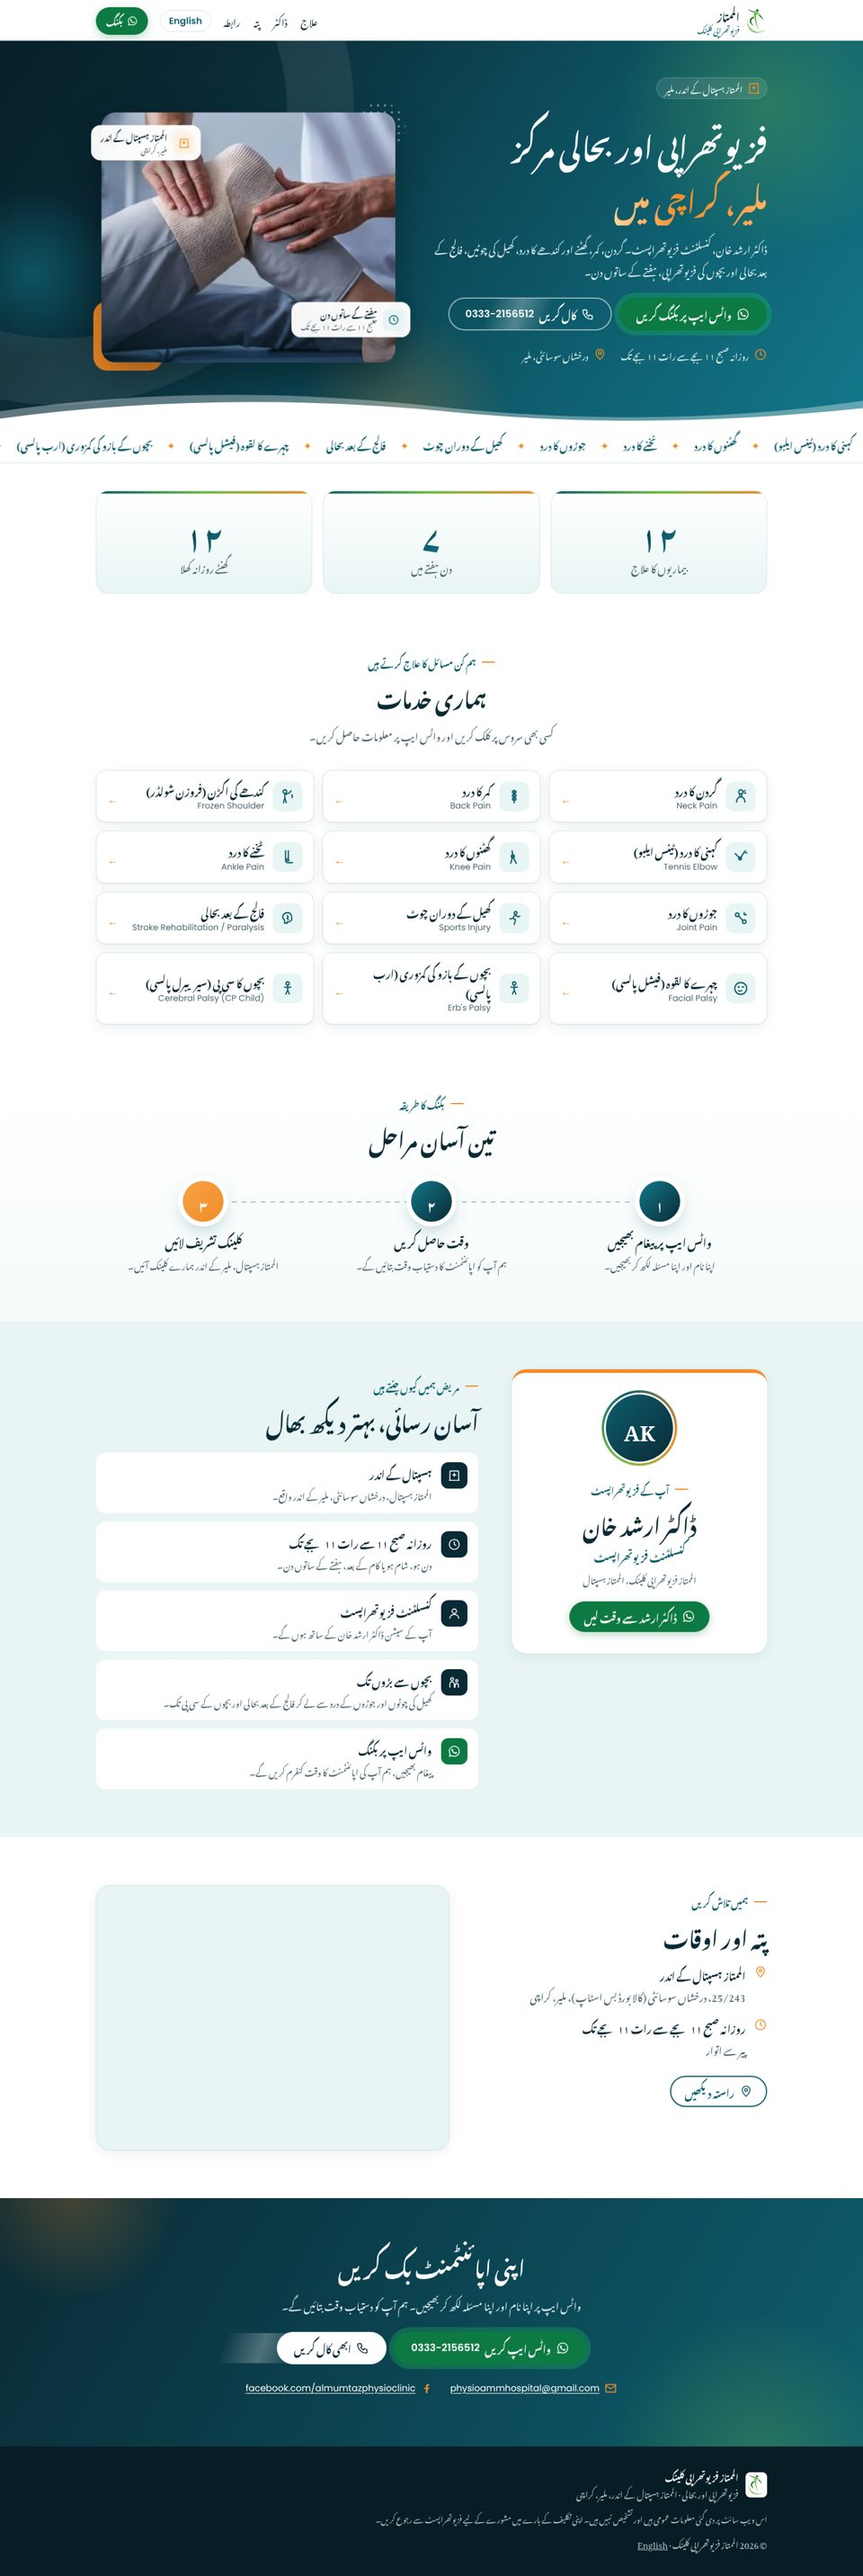
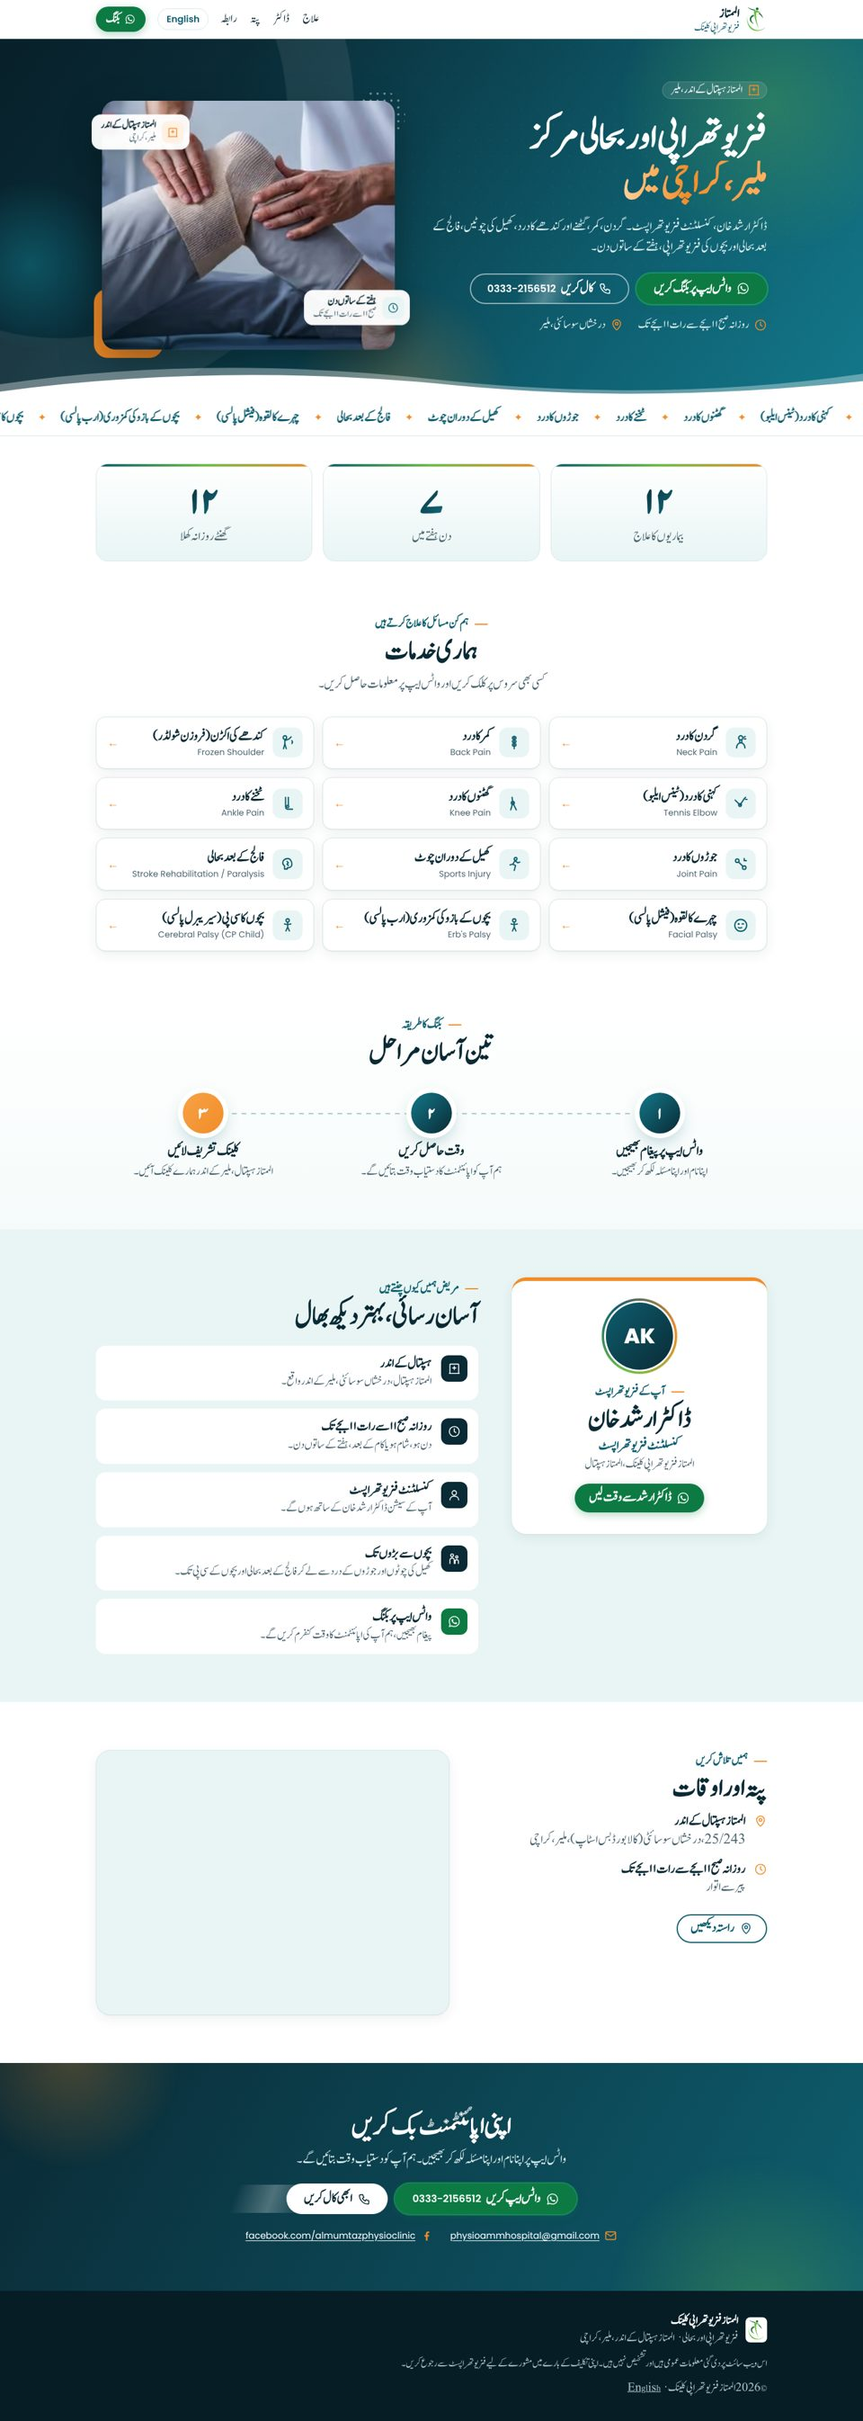
Urdu page: use Jameel Noori Nastaleeq (subset webfont, ~70 KB)
- tools/urdu_font.py shapes every Urdu string with HarfBuzz and keeps only the glyphs used
- Replaces Noto Nastaliq Urdu; size-adjust so it sits well with Poppins
- Refreshed screenshots

Claude-Session: https://claude.ai/code/session_016tra3R8HQt4HLWkdhfzTE8

diff --git a/website/app/motion.css b/website/app/motion.css
@@ -40,7 +40,7 @@
   transition: background .2s, border-color .2s, color .2s;
 }
 .lang-switch:hover { background: var(--mint); border-color: var(--teal); }
-.lang-switch:lang(ur) { font-family: var(--font-urdu), "Noto Nastaliq Urdu", "Jameel Noori Nastaleeq", "Segoe UI", sans-serif; font-size: 1rem; padding-top: 2px; }
+.lang-switch:lang(ur) { font-family: var(--font-urdu), "Jameel Noori Nastaleeq", "Noto Nastaliq Urdu", "Segoe UI", sans-serif; font-size: 1rem; padding-top: 2px; }
 .lang-switch:lang(en) { font-family: var(--font-poppins), system-ui, sans-serif; letter-spacing: 0; }
 
 /* ---------- Buttons ---------- */
@@ -236,19 +236,19 @@
 /* ---------- Urdu (RTL) ---------- */
 .ltr { direction: ltr; unicode-bidi: isolate; font-family: var(--font-poppins), system-ui, sans-serif; }
 .page-ur {
-  font-family: var(--font-urdu), "Noto Nastaliq Urdu", "Jameel Noori Nastaleeq", serif;
-  line-height: 2.15; font-size: 17px;
+  font-family: var(--font-urdu), "Jameel Noori Nastaleeq", "Noto Nastaliq Urdu", serif;
+  line-height: 1.6; font-size: 17px;
 }
 .page-ur *, .page-ur *::before, .page-ur *::after { letter-spacing: 0 !important; } /* letter-spacing breaks Urdu letter joining */
-.page-ur h1, .page-ur h2, .page-ur h3 { line-height: 1.9; font-weight: 700; }
+.page-ur h1, .page-ur h2, .page-ur h3 { line-height: 1.55; font-weight: 700; }
 .page-ur h2 { font-size: clamp(1.55rem, 3vw, 2.15rem); }
 .page-ur .hero h1 { font-size: clamp(1.9rem, 4.2vw, 3rem); margin-top: .3em; }
 .page-ur .hero-title .line { overflow: visible; padding: 0; margin: 0; }
 .page-ur .hero-title .line > span { animation-name: up-noclip; }
 @keyframes up-noclip { from { transform: translateY(24px); } to { transform: none; } }
 .page-ur .kicker { text-transform: none; font-size: .95rem; }
-.page-ur .lead { font-size: 1.05rem; line-height: 2.2; }
-.page-ur .btn { line-height: 1.9; padding-top: .45em; padding-bottom: .45em; }
+.page-ur .lead { font-size: 1.05rem; line-height: 2; }
+.page-ur .btn { line-height: 1.7; padding-top: .45em; padding-bottom: .45em; }
 .page-ur .btn-lg { padding-top: .55em; padding-bottom: .55em; }
 .page-ur .btn svg { flex: none; }
 .page-ur .brand { margin-right: 0; margin-left: auto; }
@@ -320,3 +320,4 @@ body { overflow-x: clip; }
 @media (max-width: 760px) {
   .hero-media, .hero-img img { animation: none; }
 }
+.page-ur .doc-avatar { font-family: var(--font-poppins), system-ui, sans-serif; }

diff --git a/website/app/ur/page.tsx b/website/app/ur/page.tsx
@@ -1,15 +1,18 @@
 import type { Metadata } from "next";
-import { Noto_Nastaliq_Urdu } from "next/font/google";
+import localFont from "next/font/local";
 import HomeView from "@/components/HomeView";
 import { clinic } from "@/lib/site";
 
-// Google's Noto Nastaliq Urdu, self-hosted by Next.js and loaded only on /ur.
-const nastaliq = Noto_Nastaliq_Urdu({
-  subsets: ["arabic"],
-  weight: ["400", "700"],
+// Jameel Noori Nastaleeq, cut down to only the glyphs this page uses (~70 KB instead of 10 MB).
+// Rebuild with tools/urdu_font.py whenever the Urdu text changes.
+const nastaliq = localFont({
+  src: "../fonts/jnn-subset.woff2",
   display: "swap",
   variable: "--font-urdu",
   preload: true,
+  // Jameel's letters are drawn small for their em size; scale them up to sit well with Poppins.
+  declarations: [{ prop: "size-adjust", value: "145%" }],
+  fallback: ["Jameel Noori Nastaleeq", "Noto Nastaliq Urdu", "Urdu Typesetting", "serif"],
 });
 
 const title = "الممتاز فزیوتھراپی کلینک | ملیر، کراچی میں فزیوتھراپی";

diff --git a/website/tools/urdu_font.py b/website/tools/urdu_font.py
@@ -1,0 +1,64 @@
+"""Build a small Jameel Noori Nastaleeq webfont containing only the glyphs the Urdu page uses.
+
+The full font is ~10 MB because it has ~19,000 pre-built ligatures. We shape every Urdu
+string on the site with HarfBuzz (the same shaper browsers use), keep only the glyphs that
+come out, and drop the rest (no layout closure).
+
+Run again whenever Urdu text in lib/i18n.ts or app/ur/page.tsx changes:
+  pip install fonttools brotli uharfbuzz
+  python3 tools/urdu_font.py "<path to Jameel Noori Nastaleeq Regular.ttf>"
+"""
+import re, sys, pathlib
+import uharfbuzz as hb
+from fontTools import subset
+from fontTools.ttLib import TTFont
+
+root = pathlib.Path(__file__).resolve().parent.parent
+src = sys.argv[1]
+out = root / "app" / "fonts" / "jnn-subset.woff2"
+sources = [root / "lib" / "i18n.ts", root / "app" / "ur" / "page.tsx", root / "components" / "HomeView.tsx"]
+
+text = "\n".join(p.read_text(encoding="utf-8") for p in sources)
+# Every string literal / JSX text that contains Arabic-script letters.
+runs = set()
+for lit in re.findall(r'"([^"\n]*)"|`([^`]*)`|>([^<>{}\n]+)<', text):
+    s = next((x for x in lit if x), "")
+    if re.search(r"[-ۿ]", s):
+        runs.add(s)
+# Also every word on its own (browsers may break runs at spaces, bidi or font boundaries).
+for s in list(runs):
+    runs.update(w for w in re.split(r"[\s()،۔]+", s) if w)
+digits = "۰۱۲۳۴۵۶۷۸۹"
+runs.update(digits)
+runs.update(digits[a] + digits[b] for a in range(10) for b in range(10))  # count-up numbers
+runs.update(list("،؛؟۔() -–/:!.,"))
+
+blob = hb.Blob.from_file_path(src)
+font = hb.Font(hb.Face(blob))
+gids = set()
+for s in runs:
+    buf = hb.Buffer(); buf.add_str(s); buf.guess_segment_properties()
+    # Record the glyphs after every lookup too: this font builds ligatures in several
+    # steps, and the in-between glyphs must stay for the final ones to form.
+    def trace(_msg, buf=buf):
+        gids.update(i.codepoint for i in buf.glyph_infos)
+        return True
+    buf.set_message_func(trace)
+    hb.shape(font, buf, {})
+    gids.update(i.codepoint for i in buf.glyph_infos)
+
+chars = "".join(sorted(set("".join(runs))))
+opts = subset.Options()
+opts.layout_features = ["*"]
+opts.layout_closure = False      # keep only the glyphs we traced, not every reachable ligature
+opts.hinting = False
+opts.notdef_outline = True
+opts.name_IDs = ["*"]            # keep the font's own name and notice
+opts.flavor = "woff2"
+f = subset.load_font(src, opts)
+s = subset.Subsetter(opts)
+s.populate(gids=sorted(gids), text=chars)
+s.subset(f)
+out.parent.mkdir(parents=True, exist_ok=True)
+subset.save_font(f, str(out), opts)
+print(f"{len(runs)} strings, {len(gids)} glyphs -> {out.relative_to(root)} ({out.stat().st_size/1024:.0f} KB)")

diff --git a/website/README.md b/website/README.md
@@ -32,10 +32,14 @@ npm run build && npm start
 - `tools/make-icons-og.js` regenerates the app icons and `public/og.jpg` share image (needs Playwright).
 
 ## Urdu version and animations
-- `/` is English, `/ur` is the full Urdu page (RTL, Noto Nastaliq Urdu, loaded only on `/ur`). Both pages share `components/HomeView.tsx`; all copy is in `lib/i18n.ts`.
+- `/` is English, `/ur` is the full Urdu page (RTL, Jameel Noori Nastaleeq, loaded only on `/ur`). Both pages share `components/HomeView.tsx`; all copy is in `lib/i18n.ts`.
 - hreflang alternates (`en`, `ur`, `x-default`) are set in `app/layout.tsx` and `app/ur/page.tsx`, and both URLs are in the sitemap.
 - Animations live in `app/motion.css` and the tiny `components/Motion.tsx` (scroll reveal, count-up, header shadow). All motion stops under the visitor's "reduce motion" setting, and content stays visible without JavaScript.
-- Lighthouse mobile (local): English 94–95 performance, Urdu 87–91 (the Urdu font is ~240 KB); accessibility, best practices and SEO 100 on both.
+- Lighthouse mobile (local): English 95, Urdu 93–95 performance; accessibility, best practices and SEO 100 on both.
+- **Urdu font:** `app/fonts/jnn-subset.woff2` is Jameel Noori Nastaleeq cut down to only the glyphs the Urdu page uses (~70 KB instead of 10 MB).
+  **Whenever Urdu text in `lib/i18n.ts` or `app/ur/page.tsx` changes, rebuild it**, or new words show in a fallback font:
+  `pip install fonttools brotli uharfbuzz && python3 tools/urdu_font.py "<path to Jameel Noori Nastaleeq Regular.ttf>"`
+  The font is freeware ("Free of charge for Urdu lovers") with no formal web licence; its embedding flag allows view-only embedding.
 
 ## Waiting on the clinic (do not invent)
 - Urdu medical wording in `lib/i18n.ts` (service names, hero text): to be checked by Dr. Arshad Khan before launch.
